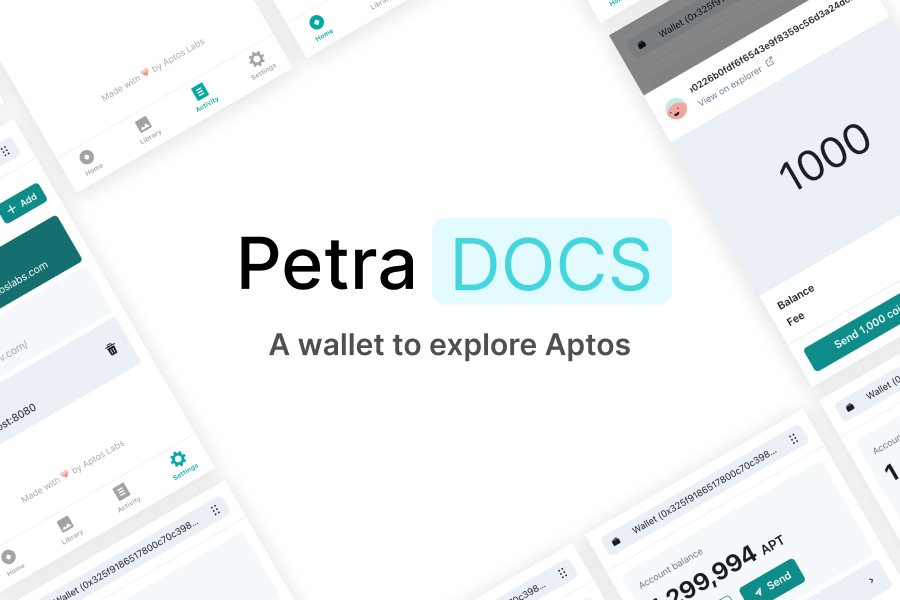
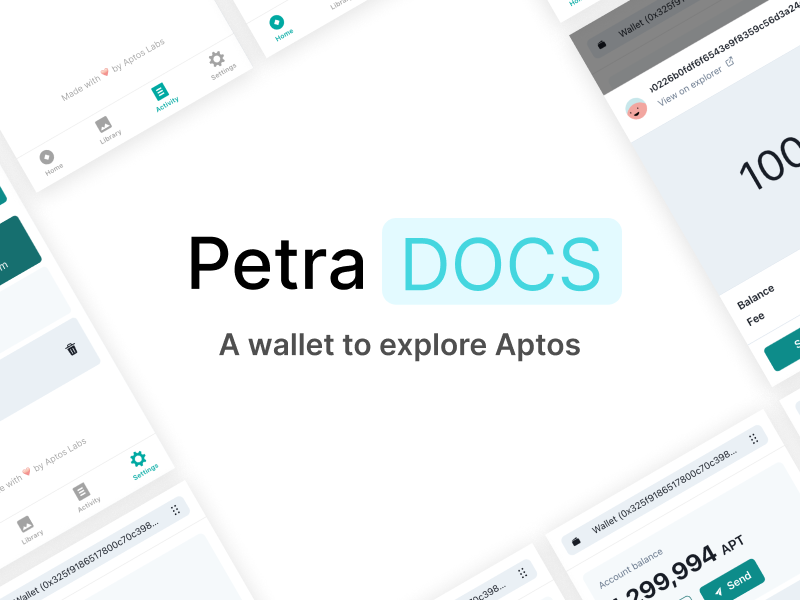
Change SEO card dimensions to 600 x 800

diff --git a/apps/website/pages/docs/[slug].tsx b/apps/website/pages/docs/[slug].tsx
@@ -134,7 +134,7 @@ export default function DocsPage({
               height: 600,
               type: 'image/jpeg',
               url: imageUrl,
-              width: 900,
+              width: 800,
             },
           ],
           site_name: COMPANY_NAME,

diff --git a/apps/website/pages/index.tsx b/apps/website/pages/index.tsx
@@ -23,7 +23,7 @@ const Home: NextPage = () => (
             height: 600,
             type: 'image/jpeg',
             url: imageUrl,
-            width: 900,
+            width: 800,
           },
         ],
         site_name: COMPANY_NAME,
